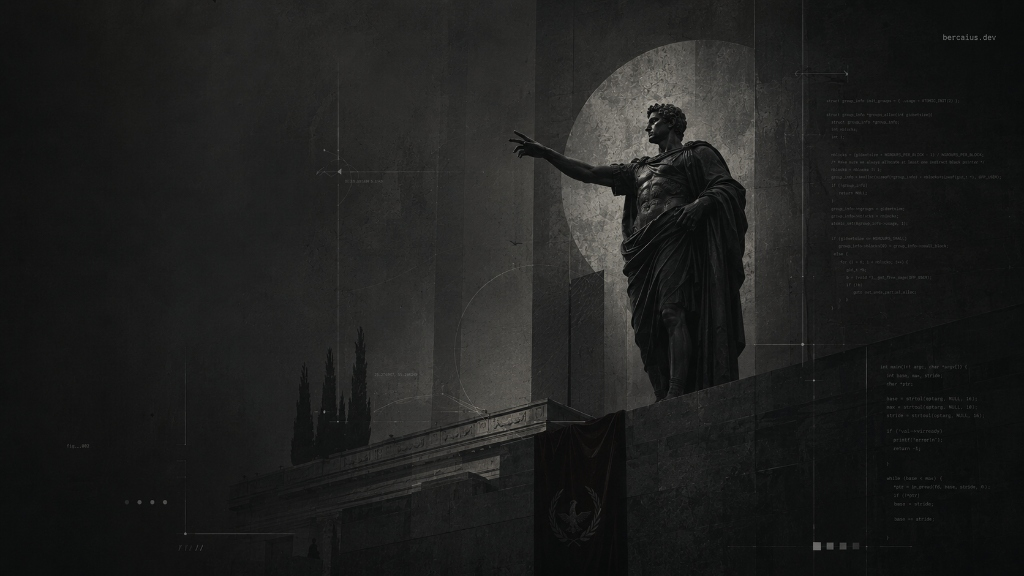
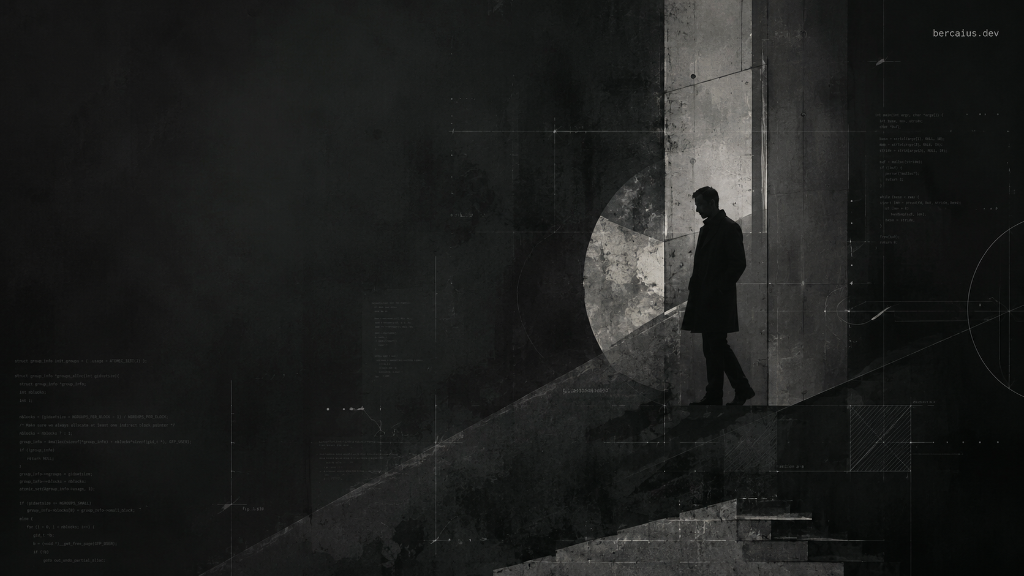
Overwrite default wallpaper with 4K statue image

diff --git a/app/page.js b/app/page.js
@@ -138,7 +138,7 @@ const TABS = [
 ];
 
 const WALLPAPERS = [
-  { id: 'w1', img: '/images/wallpaper_1.png?v=3', name: 'Efsane Klasik' },
+  { id: 'w1', img: '/images/wallpaper_1.png?v=4', name: 'Efsane Klasik' },
   { id: 'w2', img: '/images/wallpaper_2.png?v=3', name: 'Hit Kürü' },
   { id: 'w3', img: '/images/wallpaper_3.png?v=3', name: 'Disiplin Profili' },
   { id: 'w4', img: '/images/wallpaper_4.png?v=3', name: 'Kusursuz Zafer' }
@@ -180,7 +180,7 @@ export default function Home() {
   const [showInstallGuide, setShowInstallGuide] = useState(false);
 
   // Kalıcı Duvar Kağıdı ve Saydamlık Seçimi
-  const [wallpaper, setWallpaper] = useLocalStorage('cf-wallpaper', '/images/wallpaper_1.png?v=3');
+  const [wallpaper, setWallpaper] = useLocalStorage('cf-wallpaper', '/images/wallpaper_1.png?v=4');
   const [bgOpacity, setBgOpacity] = useLocalStorage('cf-bg-opacity', 0.85);
 
   // macOS Dock Büyütme Efekti